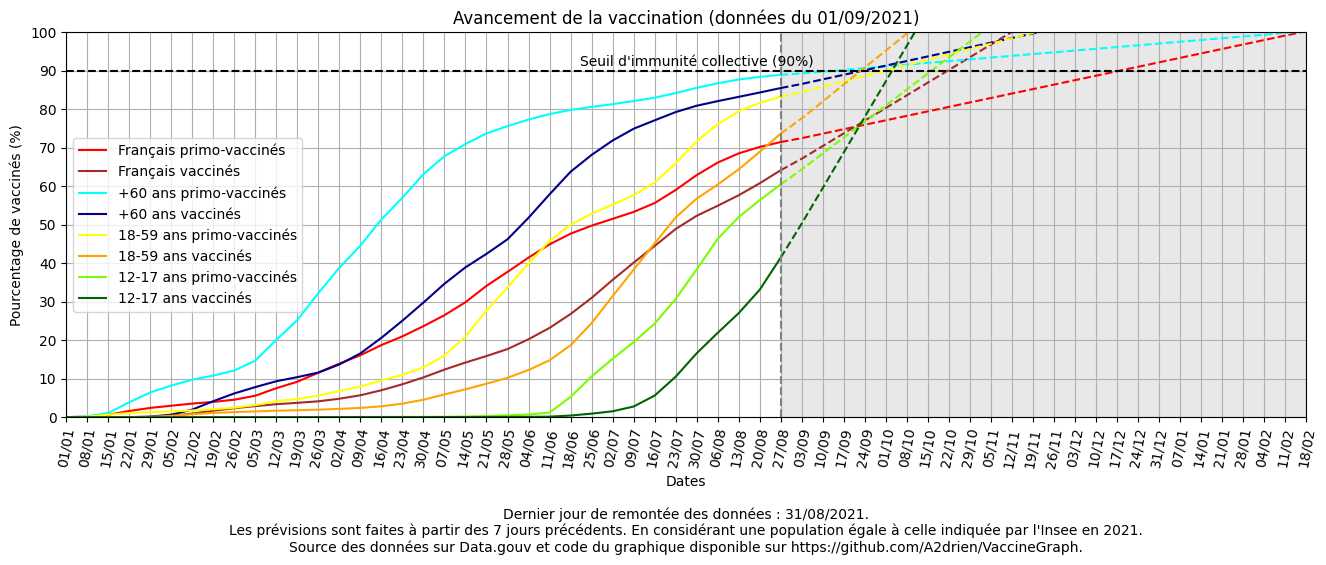
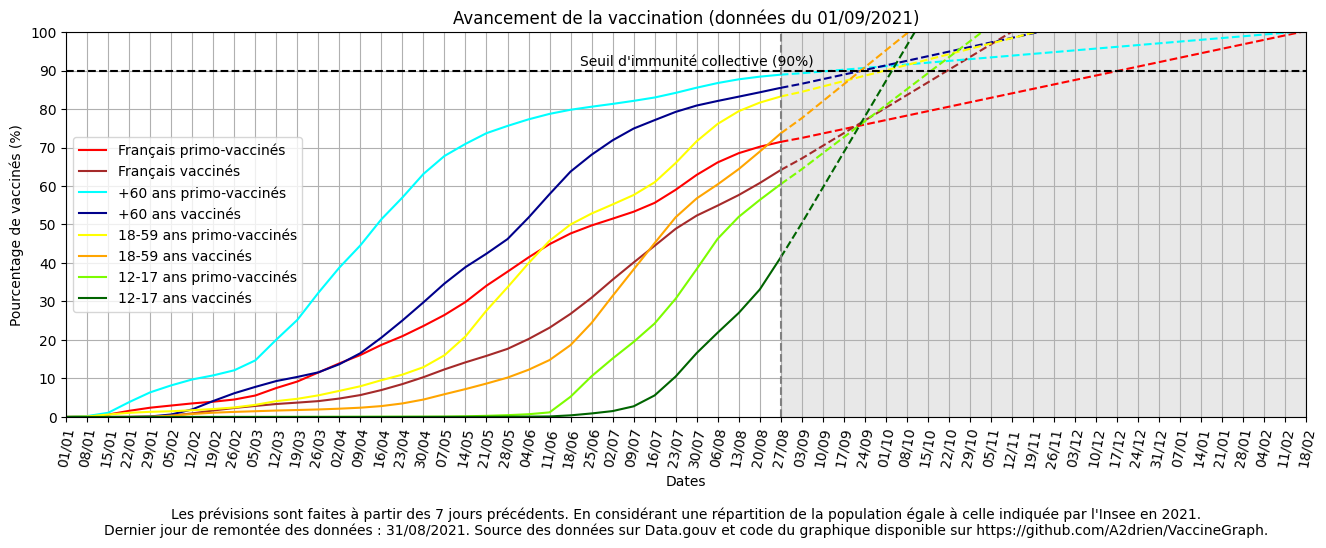
Update des notes de bas de page

Changed region(s): [[0.0, 0.0, 0.9894, 0.9927], [0.0309, 0.5894, 0.0618, 0.6204]]

diff --git a/scriptVaccination.py b/scriptVaccination.py
@@ -326,9 +326,8 @@ plt.margins(0, 0)                                                               
 
 #Défini les titres du graphe et des axes x et y, et ajoute des notes en bas du graphe
 plt.title(f"Avancement de la vaccination (données du {nom_fichier[20:22]}/{nom_fichier[17:19]}/{nom_fichier[12:16]})")
-plt.xlabel(f"""Dates\n\nDernier jour de remontée des données : {dernier_jour[8:]}/{dernier_jour[5:7]}/{dernier_jour[:4]}.
-Les prévisions sont faites à partir des {formatNombre(nb_jour_prediction)} jours précédents. En considérant une population égale à celle indiquée par l'Insee en 2021.
-Source des données sur Data.gouv et code du graphique disponible sur https://github.com/A2drien/VaccineGraph.""")
+plt.xlabel(f"""Dates\n\nLes prévisions sont faites à partir des {formatNombre(nb_jour_prediction)} jours précédents. En considérant une répartition de la population égale à celle indiquée par l'Insee en 2021.
+Dernier jour de remontée des données : {dernier_jour[8:]}/{dernier_jour[5:7]}/{dernier_jour[:4]}. Source des données sur Data.gouv et code du graphique disponible sur https://github.com/A2drien/VaccineGraph.""")
 plt.ylabel("Pourcentage de vaccinés (%)")
 
 #Sauvegarde l'image (avec la date des données dans les archives) et supprime les marges exterieures
